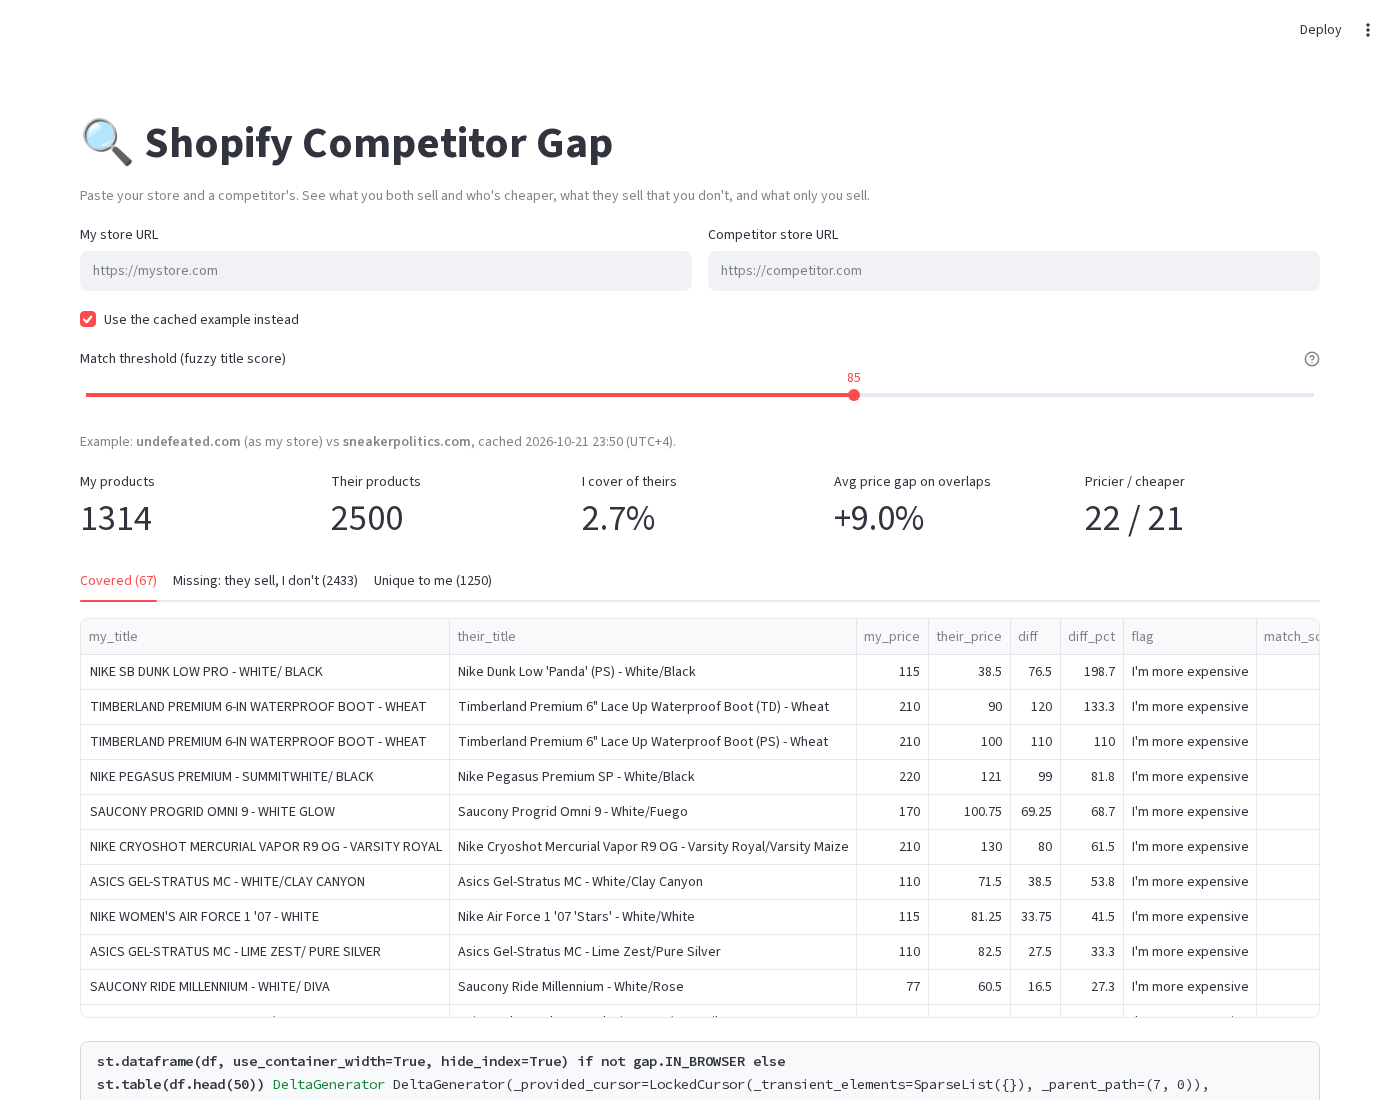
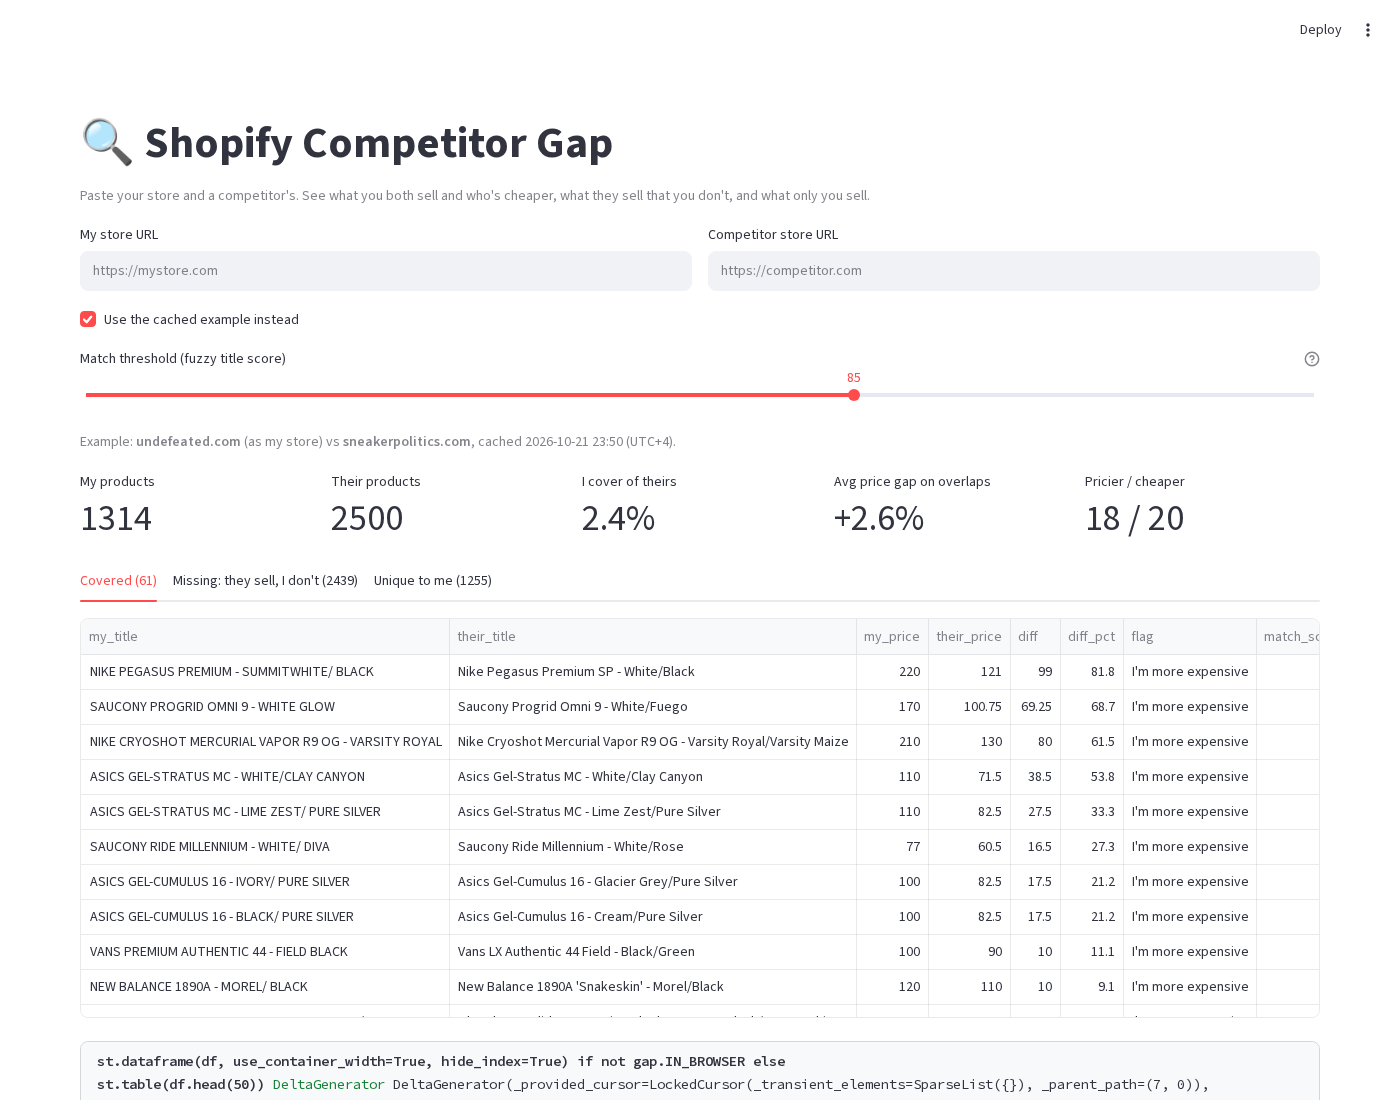
Match only within the same size group (adult vs kids), refresh numbers and screenshot

diff --git a/tests/test_gap.py b/tests/test_gap.py
@@ -9,7 +9,7 @@ def cat(rows):
 MINE = cat([("af1-white", "Nike Air Force 1 Low - White", "Nike", 110), ("nb-990", "New Balance 990v6 Grey", "New Balance", 200),
             ("my-tee", "House Logo Tee", "Mine", 40)])
 THEIRS = cat([("nike-af1-low-white", "NIKE AIR FORCE 1 LOW (WHITE)", "Nike", 100), ("nb-990", "NB 990 v6", "New Balance", 210),
-              ("samba", "Adidas Samba OG", "adidas", 120), ("af1-fake", "Nike Air Force 1 Low - White", "Reebok", 90)])
+              ("samba", "Adidas Samba OG", "adidas", 120), ("af1-ps", "Nike Air Force 1 Low (PS) - White", "Nike", 70), ("af1-fake", "Nike Air Force 1 Low - White", "Reebok", 90)])
 
 def test_match_views_and_summary():
     cov, miss, uniq = gap.match_catalogues(MINE, THEIRS, threshold=85)
@@ -17,10 +17,10 @@ def test_match_views_and_summary():
     af1 = cov[cov.my_title.str.startswith("Nike")].iloc[0]
     assert af1["diff"] == 10 and af1.diff_pct == 10.0 and af1.flag == "I'm more expensive"
     assert cov[cov.vendor == "New Balance"].iloc[0].flag == "I'm cheaper"
-    assert list(miss.title) == ["Adidas Samba OG", "Nike Air Force 1 Low - White"]   # sorted by price desc
+    assert list(miss.title) == ["Adidas Samba OG", "Nike Air Force 1 Low - White", "Nike Air Force 1 Low (PS) - White"]  # kids size not matched to adult   # sorted by price desc
     assert list(uniq.title) == ["House Logo Tee"]
     s = gap.summary(MINE, THEIRS, cov, miss, uniq)
-    assert s["coverage_pct"] == 50.0 and s["more_expensive"] == 1 and s["cheaper"] == 1
+    assert s["coverage_pct"] == 40.0 and s["more_expensive"] == 1 and s["cheaper"] == 1
 
 def test_fetch_paginates():
     pages = {1: [{"handle": f"p{i}", "title": "x", "variants": [{"price": "9"}, {"price": "5"}]} for i in range(250)],

diff --git a/docs/gap.py b/docs/gap.py
@@ -46,18 +46,29 @@ def norm(s):
     return re.sub(r"[^a-z0-9 ]+", " ", str(s).lower()).strip()
 
 
+SIZE_TAGS = {"ps", "td", "gs", "kids", "kid", "toddler", "infant", "infants", "youth", "baby", "womens", "women", "wmns"}
+
+
+def size_group(title):
+    """Kids/women's tags in a title. Products only match if these agree (adult != kids sizes)."""
+    return frozenset(SIZE_TAGS & set(norm(title).replace("women s", "womens").split()))
+
+
 def match_catalogues(mine, theirs, threshold=85):
-    """For each competitor product, find my best match: same handle wins, else fuzzy title within the same vendor."""
+    """For each competitor product, find my best match: same handle wins, else fuzzy title within the same vendor
+    and the same size group (kids/women's tags)."""
     mine = mine.reset_index(drop=True)
     my_handles = {h: i for i, h in enumerate(mine.handle)}
     my_titles = [norm(t) for t in mine.title]
     my_vendors = [norm(v) for v in mine.vendor]
+    my_groups = [size_group(t) for t in mine.title]
     pairs = []
     for _, t in theirs.iterrows():
         if t.handle in my_handles:
             pairs.append((t, mine.loc[my_handles[t.handle]], 100.0)); continue
-        v = norm(t.vendor)
-        cand = {i: my_titles[i] for i in range(len(mine)) if not v or not my_vendors[i] or my_vendors[i] == v}
+        v, g = norm(t.vendor), size_group(t.title)
+        cand = {i: my_titles[i] for i in range(len(mine))
+                if (not v or not my_vendors[i] or my_vendors[i] == v) and my_groups[i] == g}
         hit = process.extractOne(norm(t.title), cand, scorer=fuzz.token_sort_ratio, score_cutoff=threshold)
         if hit:
             pairs.append((t, mine.loc[hit[2]], round(hit[1], 1)))

diff --git a/gap.py b/gap.py
@@ -46,18 +46,29 @@ def norm(s):
     return re.sub(r"[^a-z0-9 ]+", " ", str(s).lower()).strip()
 
 
+SIZE_TAGS = {"ps", "td", "gs", "kids", "kid", "toddler", "infant", "infants", "youth", "baby", "womens", "women", "wmns"}
+
+
+def size_group(title):
+    """Kids/women's tags in a title. Products only match if these agree (adult != kids sizes)."""
+    return frozenset(SIZE_TAGS & set(norm(title).replace("women s", "womens").split()))
+
+
 def match_catalogues(mine, theirs, threshold=85):
-    """For each competitor product, find my best match: same handle wins, else fuzzy title within the same vendor."""
+    """For each competitor product, find my best match: same handle wins, else fuzzy title within the same vendor
+    and the same size group (kids/women's tags)."""
     mine = mine.reset_index(drop=True)
     my_handles = {h: i for i, h in enumerate(mine.handle)}
     my_titles = [norm(t) for t in mine.title]
     my_vendors = [norm(v) for v in mine.vendor]
+    my_groups = [size_group(t) for t in mine.title]
     pairs = []
     for _, t in theirs.iterrows():
         if t.handle in my_handles:
             pairs.append((t, mine.loc[my_handles[t.handle]], 100.0)); continue
-        v = norm(t.vendor)
-        cand = {i: my_titles[i] for i in range(len(mine)) if not v or not my_vendors[i] or my_vendors[i] == v}
+        v, g = norm(t.vendor), size_group(t.title)
+        cand = {i: my_titles[i] for i in range(len(mine))
+                if (not v or not my_vendors[i] or my_vendors[i] == v) and my_groups[i] == g}
         hit = process.extractOne(norm(t.title), cand, scorer=fuzz.token_sort_ratio, score_cutoff=threshold)
         if hit:
             pairs.append((t, mine.loc[hit[2]], round(hit[1], 1)))

diff --git a/README.md b/README.md
@@ -17,13 +17,13 @@ undefeated.com (as "my store") vs sneakerpolitics.com, pulled Oct 21, 2026 at th
 
 | My products | Their products | Covered | Missing | Unique to me | I cover of theirs | Avg gap on overlaps | Pricier / cheaper |
 |---|---|---|---|---|---|---|---|
-| 1,314 | 2,500* | 67 | 2,433 | 1,250 | 2.7% | +9.0% | 22 / 21 (24 same price) |
+| 1,314 | 2,500* | 61 | 2,439 | 1,255 | 2.4% | +2.6% | 18 / 20 (23 same price) |
 
 \*Capped at 10 pages × 250 products.
 
 ## Features
 - Pulls both full catalogues from `/products.json`, paginated (250 per page, 10 pages by default). Price = lowest variant price.
-- Matching: same handle first, else a fuzzy title score (rapidfuzz `token_sort_ratio`) within the same vendor. There's a **threshold slider** for how strict it is.
+- Matching: same handle first, else a fuzzy title score (rapidfuzz `token_sort_ratio`) within the same vendor and size group (kids tags like PS/TD/GS and women's must agree, so adult shoes don't match kids' sizes). There's a **threshold slider** for how strict it is.
 - **Covered**: my price, their price, the difference, the % difference, and an "I'm more expensive / I'm cheaper" flag.
 - **Missing**: what they sell and I don't, most expensive first.
 - **Unique to me**.
@@ -46,6 +46,7 @@ Tests: `pip install pytest && pytest -q`
 ## Limitations
 - Only works on Shopify stores that expose `/products.json`. Some stores block it.
 - It compares list prices in each store's own currency, with no currency conversion.
+- Prices are current list prices, so a competitor's sale price shows up as a big gap.
 - Colourways and sizes listed as separate products may match one-to-many or miss. Use the slider and check the match score.
 - The browser demo runs on Pyodide. Browsers block cross-site requests (CORS), so it shows only the cached example and uses a difflib matcher in place of rapidfuzz (same results on the example). `docs/` holds copies of `app.py` and `gap.py`.
 
